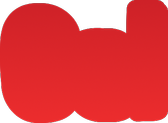
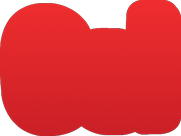
bmfont fix + mallet position fix when user touch the screen outside the court

diff --git a/Classes/HockeyScene.cpp b/Classes/HockeyScene.cpp
@@ -1,4 +1,5 @@
 #include "HockeyScene.h"
+#include "MenuScene.h"
 #include "SimpleAudioEngine.h"
 
 using namespace cocos2d;
@@ -27,7 +28,7 @@ bool HockeyScene::init()
 	_gamePaused = false;
 	_goToPuck = true;
     _playersNumber = CCUserDefault::sharedUserDefault()->getIntegerForKey("number_of_players");
-	_friction = 0.98;
+    _friction = 0.987;
 	_bottomPlayerScore = 0;
 	_topPlayerScore = 0;
 	_computer_player_level = 1;
@@ -131,7 +132,7 @@ bool HockeyScene::init()
     _bottomPlayer->setOpacity(128);
     this->addChild(_bottomPlayer);
 
-    _computer_mallet_speed = _topPlayer->get_radius() / 12;
+    _computer_mallet_speed = _topPlayer->get_radius() / 8;
 
     _players = CCArray::create(_bottomPlayer, _topPlayer, NULL);
     _players->retain();
@@ -139,12 +140,13 @@ bool HockeyScene::init()
     // create score labels
     _top_player_score = CCLabelBMFont::create("0", "londrina_solid.fnt", 10);
     _top_player_score->setPosition(ccp(_screenSize.width - _bottomPlayer->get_radius(), (_screenSize.height / 2) + _bottomPlayer->get_radius()));
+    _top_player_score->setColor(ccc3(255, 0, 0));
     this->addChild(_top_player_score);
 
     _bottom_player_score = CCLabelBMFont::create("0", "londrina_solid.fnt", 10);
     _bottom_player_score->setPosition(ccp(_screenSize.width - _bottomPlayer->get_radius(), (_screenSize.height / 2) - (_bottomPlayer->get_radius() * 0.7)));
+    _bottom_player_score->setColor(ccc3(255, 0, 0));
     this->addChild(_bottom_player_score);
-
 
     // create puck
     _puck = VectorSprite::vectorSpriteWithFile("puck.png");
@@ -195,6 +197,14 @@ bool HockeyScene::init()
 
     _goal_message->setVisible(false);
 
+    //overlay
+    _overlay = new CCLayerColor();
+    _overlay->initWithColor(ccc4(0, 0, 0, 128));
+    _overlay->setContentSize(CCSizeMake(_screenSize.width, _screenSize.height));
+    this->addChild(_overlay);
+    _overlay->setVisible(false);
+
+
     // listen for touches
     this->setTouchEnabled(true);
     this->schedule(schedule_selector(HockeyScene::update));
@@ -229,6 +239,7 @@ void HockeyScene::ccTouchesBegan(CCSet* touches, CCEvent* event)
 					}
                     else if(_bottomPlayer->getTouch() == NULL && tap.y < _screenSize.height / 2)
                     {
+                        tap = keepMalletInsideCourt(0, tap);
                         _bottomPlayer->setPosition(tap);
                         _bottomPlayer->setNextPos(tap);
 
@@ -236,6 +247,7 @@ void HockeyScene::ccTouchesBegan(CCSet* touches, CCEvent* event)
                     }
                     else if(_playersNumber > 1 && _topPlayer->getTouch() == NULL && tap.y > _screenSize.height / 2)
                     {
+                        tap = keepMalletInsideCourt(1, tap);
                         _topPlayer->setPosition(tap);
                         _topPlayer->setNextPos(tap);
 
@@ -578,6 +590,53 @@ void HockeyScene::resumeAfterGoal()
     _goal_message->setVisible(false);
 }
 
+void HockeyScene::showWinnerMenu()
+{
+    _overlay->setVisible(true);
+
+    MenuSprite * again = MenuSprite::createWithText(CCLocalizedString("PLAYAGAIN"), false);
+    again->setPositionX(_screenSize.width * 0.5 + (again->getContentSize().width / 2));
+
+    MenuSprite * again_active = MenuSprite::createWithText(CCLocalizedString("PLAYAGAIN"), true);
+
+    MenuSprite * go_back = MenuSprite::createWithText(CCLocalizedString("GOBACK"), false);
+    go_back->setPositionX(_screenSize.width * 0.5 + (go_back->getContentSize().width / 2));
+
+    MenuSprite * go_back_active = MenuSprite::createWithText(CCLocalizedString("GOBACK"), true);
+
+    CCMenuItemSprite * menu_again = CCMenuItemSprite::create(
+                again,
+                again_active,
+                this,
+                menu_selector(HockeyScene::playAgain)
+                );
+
+    CCMenuItemSprite * menu_goback = CCMenuItemSprite::create(
+                go_back,
+                go_back_active,
+                this,
+                menu_selector(HockeyScene::goBack)
+                );
+
+    CCMenu * winMenu = CCMenu::create(menu_again, menu_goback, NULL);
+    winMenu->alignItemsVerticallyWithPadding(again->getContentSize().height * 0.4);
+    winMenu->setPosition(ccp(_screenSize.width * 0.5, _screenSize.height * 0.5));
+
+    this->addChild(winMenu);
+
+    float move_button_time = 0.2;
+
+    again->runAction(CCMoveTo::create(move_button_time, ccp(0, again->getPositionY())));
+    go_back->runAction(
+                CCSequence::create(
+                    CCScaleTo::create(move_button_time, 1.0),
+                    CCMoveTo::create(move_button_time, ccp(0, go_back->getPositionY())),
+                    NULL
+                    )
+                );
+
+}
+
 void HockeyScene::showGoalLabel(short int player)
 {
     _gamePaused = true;
@@ -648,6 +707,121 @@ void HockeyScene::showGoalLabel(short int player)
     _goal_message_background->runAction(goal_message_sequence);
 }
 
+void HockeyScene::showWinnerLabel(short int player)
+{
+    // create the winner message layer
+    CCLayer * winner_message = new CCLayer();
+    winner_message->setPosition(ccp(_screenSize.width / 2, _screenSize.height / 2));
+
+    // select the background according to the system language
+    CCSprite * winner_message_background = CCSprite::create(CCLocalizedString("WINNERBACKGROUND"));
+    winner_message->addChild(winner_message_background);
+
+    CCSprite * winner_space = CCSprite::create("goal_border_letters_separation.png");
+    winner_message->addChild(winner_space);
+
+    float letter_position_x = -(winner_message_background->getContentSize().width / 2) + winner_space->getContentSize().width;
+    float letter_position_y = (winner_message_background->getContentSize().height / 2) - winner_space->getContentSize().height;
+
+    const char * winnerName = CCLocalizedString("WINNERNAME");
+
+    CCArray * winner_message_letters = CCArray::create();
+
+    for(long unsigned int i = 0; i < strlen(winnerName); i++)
+    {
+        char letter_file_name[] = {'g', 'o', 'a', 'l', '_', winnerName[i], '.', 'p', 'n', 'g', '\0'};
+
+        CCLog("%s", letter_file_name);
+
+        CCSprite * letter = CCSprite::create(letter_file_name);
+
+        letter_position_x += letter->getContentSize().width / 2;
+
+        letter->setPosition(ccp(letter_position_x, letter_position_y - (letter->getContentSize().height / 2)));
+
+        letter_position_x += letter->getContentSize().width / 2;
+
+        winner_message->addChild(letter);
+        winner_message_letters->addObject(letter);
+    }
+
+    this->addChild(winner_message);
+
+    _gamePaused = true;
+
+    winner_message_background->setOpacity(0);
+
+    if(player > 1)
+    {
+        winner_message->setPositionY(_screenSize.height * 0.65);
+        winner_message->setRotation(180);
+    }
+    else
+    {
+        winner_message->setPositionY(_screenSize.height * 0.35);
+        winner_message->setRotation(0);
+    }
+
+    CCFiniteTimeAction* winner_label_done = CCCallFuncN::create( this,
+                                            callfuncN_selector(HockeyScene::showWinnerMenu));
+
+    float fade_time = 0.2f;
+    float scale_time = 0.1f;
+    float shake_time = 0.1f;
+    short int shakes = 3;
+
+    float letter_animation_time = (scale_time * 2) +  (winner_message_letters->count() *(shakes * shake_time));
+
+    CCSequence * winner_message_sequence =
+            CCSequence::create(
+                CCFadeIn::create(fade_time),
+                CCScaleTo::create(letter_animation_time + fade_time, 1.0f),
+                winner_label_done,
+                NULL
+                );
+
+    CCSequence * letter_sequence[winner_message_letters->count()];
+
+    for(unsigned int l =  0; l < winner_message_letters->count(); l++)
+    {
+        CCSprite * letter = (CCSprite *) winner_message_letters->objectAtIndex(l);
+        letter->setOpacity(0);
+
+        letter_sequence[l] =
+                CCSequence::create(
+                    CCScaleTo::create(fade_time + (l * scale_time), 1.0f),
+                    CCSpawn::create(
+                        CCFadeIn::create(scale_time),
+                        CCScaleTo::create(scale_time, 1.5f),
+                        CCRotateTo::create(scale_time, 15),
+                        NULL
+                        ),
+                    CCRotateTo::create(shake_time, -15),
+                    CCSpawn::create(
+                        CCScaleTo::create(scale_time, 1.0f),
+                        CCRotateTo::create(scale_time, 0),
+                        NULL
+                        ),
+                    CCScaleTo::create(letter_animation_time - (l * scale_time) - (scale_time * 2) - shake_time + fade_time, 1.0f),
+                    NULL
+                    );
+
+        letter->runAction(letter_sequence[l]);
+    }
+
+    winner_message_background->runAction(winner_message_sequence);
+}
+
+void HockeyScene::playAgain()
+{
+    CCDirector::sharedDirector()->replaceScene(HockeyScene::scene());
+}
+
+void HockeyScene::goBack()
+{
+    CCDirector::sharedDirector()->replaceScene(MenuScene::scene());
+}
+
 /********************************************//**
  *  Update player score
  *  @param player int of the player
@@ -671,7 +845,14 @@ void HockeyScene::playerScore(short int player)
 		center = ccp(_screenSize.width / 2, _screenSize.height / 2 + _puck->get_radius());
 	}
 
-    showGoalLabel(player);
+    if(_bottomPlayerScore == 7 || _topPlayerScore == 7)
+    {
+        showWinnerLabel(player);
+    }
+    else
+    {
+        showGoalLabel(player);
+    }
 
 	/**
 	 *  display score
@@ -811,7 +992,7 @@ void HockeyScene::puckCollisionVector(CCPoint objectCenter, float objectRadius, 
 			_puck->setPosition(new_puck_position);
 		}
 
-		CCPoint new_puck_vector = ccp(puck_vector_force * cos(puck_vector_angle), puck_vector_force * sin(puck_vector_angle));
+        CCPoint new_puck_vector = ccp(puck_vector_force * 0.7 * cos(puck_vector_angle), puck_vector_force * sin(puck_vector_angle));
 
 		// multiply vector per vectors radio
 		_puck->setVector(new_puck_vector);

diff --git a/Classes/MenuScene.cpp b/Classes/MenuScene.cpp
@@ -40,22 +40,26 @@ bool MenuScene::init()
 
     game_title->runAction(CCFadeIn::create(2.0f));
 
-    _one_player = MenuSprite::createWithText(CCLocalizedString("ONEPLAYER"));
+    _one_player = MenuSprite::createWithText(CCLocalizedString("ONEPLAYER"), false);
     _one_player->setPositionX(screenSize.width * 0.5 + (_one_player->getContentSize().width / 2));
 
-    _two_players = MenuSprite::createWithText(CCLocalizedString("TWOPLAYERS"));
+    MenuSprite * one_player_active = MenuSprite::createWithText(CCLocalizedString("ONEPLAYER"), true);
+
+    _two_players = MenuSprite::createWithText(CCLocalizedString("TWOPLAYERS"), false);
     _two_players->setPositionX(screenSize.width * 0.5 + (_two_players->getContentSize().width / 2));
+
+    MenuSprite * two_players_active = MenuSprite::createWithText(CCLocalizedString("TWOPLAYERS"), true);
 
     CCMenuItemSprite * menu_one_player = CCMenuItemSprite::create(
                 _one_player,
-                _one_player,
+                one_player_active,
                 this,
                 menu_selector(MenuScene::StartOnePlayer)
                 );
 
     CCMenuItemSprite * menu_two_players = CCMenuItemSprite::create(
                 _two_players,
-                _two_players,
+                two_players_active,
                 this,
                 menu_selector(MenuScene::StartTwoPlayers)
                 );
@@ -66,11 +70,13 @@ bool MenuScene::init()
 
     this->addChild(_playMenu);
 
-    _one_player->runAction(CCMoveTo::create(0.1, ccp(0, _one_player->getPositionY())));
+    float move_button_time = 0.2;
+
+    _one_player->runAction(CCMoveTo::create(move_button_time, ccp(0, _one_player->getPositionY())));
     _two_players->runAction(
                 CCSequence::create(
-                    CCMoveTo::create(0.1, ccp(_two_players->getPositionX(), _two_players->getPositionY())),
-                    CCMoveTo::create(0.1, ccp(0, _two_players->getPositionY())),
+                    CCScaleTo::create(move_button_time, 1.0f),
+                    CCMoveTo::create(move_button_time, ccp(0, _two_players->getPositionY())),
                     NULL
                     )
                 );

diff --git a/Classes/MenuSprite.cpp b/Classes/MenuSprite.cpp
@@ -10,7 +10,7 @@ MenuSprite::~MenuSprite()
     // TODO Auto-generated destructor stub
 }
 
-MenuSprite * MenuSprite::createWithText(const char * button_text)
+MenuSprite * MenuSprite::createWithText(const char * button_text, bool active)
 {
     MenuSprite* sprite = new MenuSprite();
 
@@ -21,6 +21,11 @@ MenuSprite * MenuSprite::createWithText(const char * button_text)
         CCLabelBMFont * label = CCLabelBMFont::create(button_text, "londrina_solid.fnt");
         label->setPosition(ccp(sprite->getContentSize().width / 2, sprite->getContentSize().height * 0.62));
         sprite->addChild(label);
+        if(active)
+        {
+            CCLog("active button: %s", button_text);
+            label->setColor(ccc3(255, 0, 0));
+        }
 
         return sprite;
     }

diff --git a/Classes/HockeyScene.h b/Classes/HockeyScene.h
@@ -3,6 +3,7 @@
 
 #include "cocos2d.h"
 #include "VectorSprite.h"
+#include "MenuSprite.h"
 #include "CCLocalizedString.h"
 
 class HockeyScene : public cocos2d::CCLayerColor
@@ -43,6 +44,8 @@ class HockeyScene : public cocos2d::CCLayerColor
     CCSprite * _goal_message_background;
     CCArray * _goal_message_letters;
 
+    CCLayerColor * _overlay;
+
 public:
     // Here's a difference. Method 'init' in cocos2d-x returns bool, instead of returning 'id' in cocos2d-iphone
     virtual bool init();  
@@ -62,7 +65,15 @@ public:
 
     void resumeAfterGoal();
 
+    void playAgain();
+
+    void goBack();
+
+    void showWinnerMenu();
+
     void showGoalLabel(short int player);
+
+    void showWinnerLabel(short int player);
 
     void playerScore(short int player);
 

diff --git a/Classes/AppDelegate.cpp b/Classes/AppDelegate.cpp
@@ -58,6 +58,7 @@ bool AppDelegate::applicationDidFinishLaunching()
 
     // create a scene. it's an autorelease object
     CCScene *pScene = MenuScene::scene();
+    //CCScene *pScene = HockeyScene::scene();
 
     // run
     pDirector->runWithScene(pScene);

diff --git a/Classes/MenuSprite.h b/Classes/MenuSprite.h
@@ -9,7 +9,7 @@ public:
     MenuSprite(void);
     virtual ~MenuSprite(void);
 
-    static MenuSprite* createWithText(const char * button_text);
+    static MenuSprite* createWithText(const char * button_text, bool active);
 
 };
 
